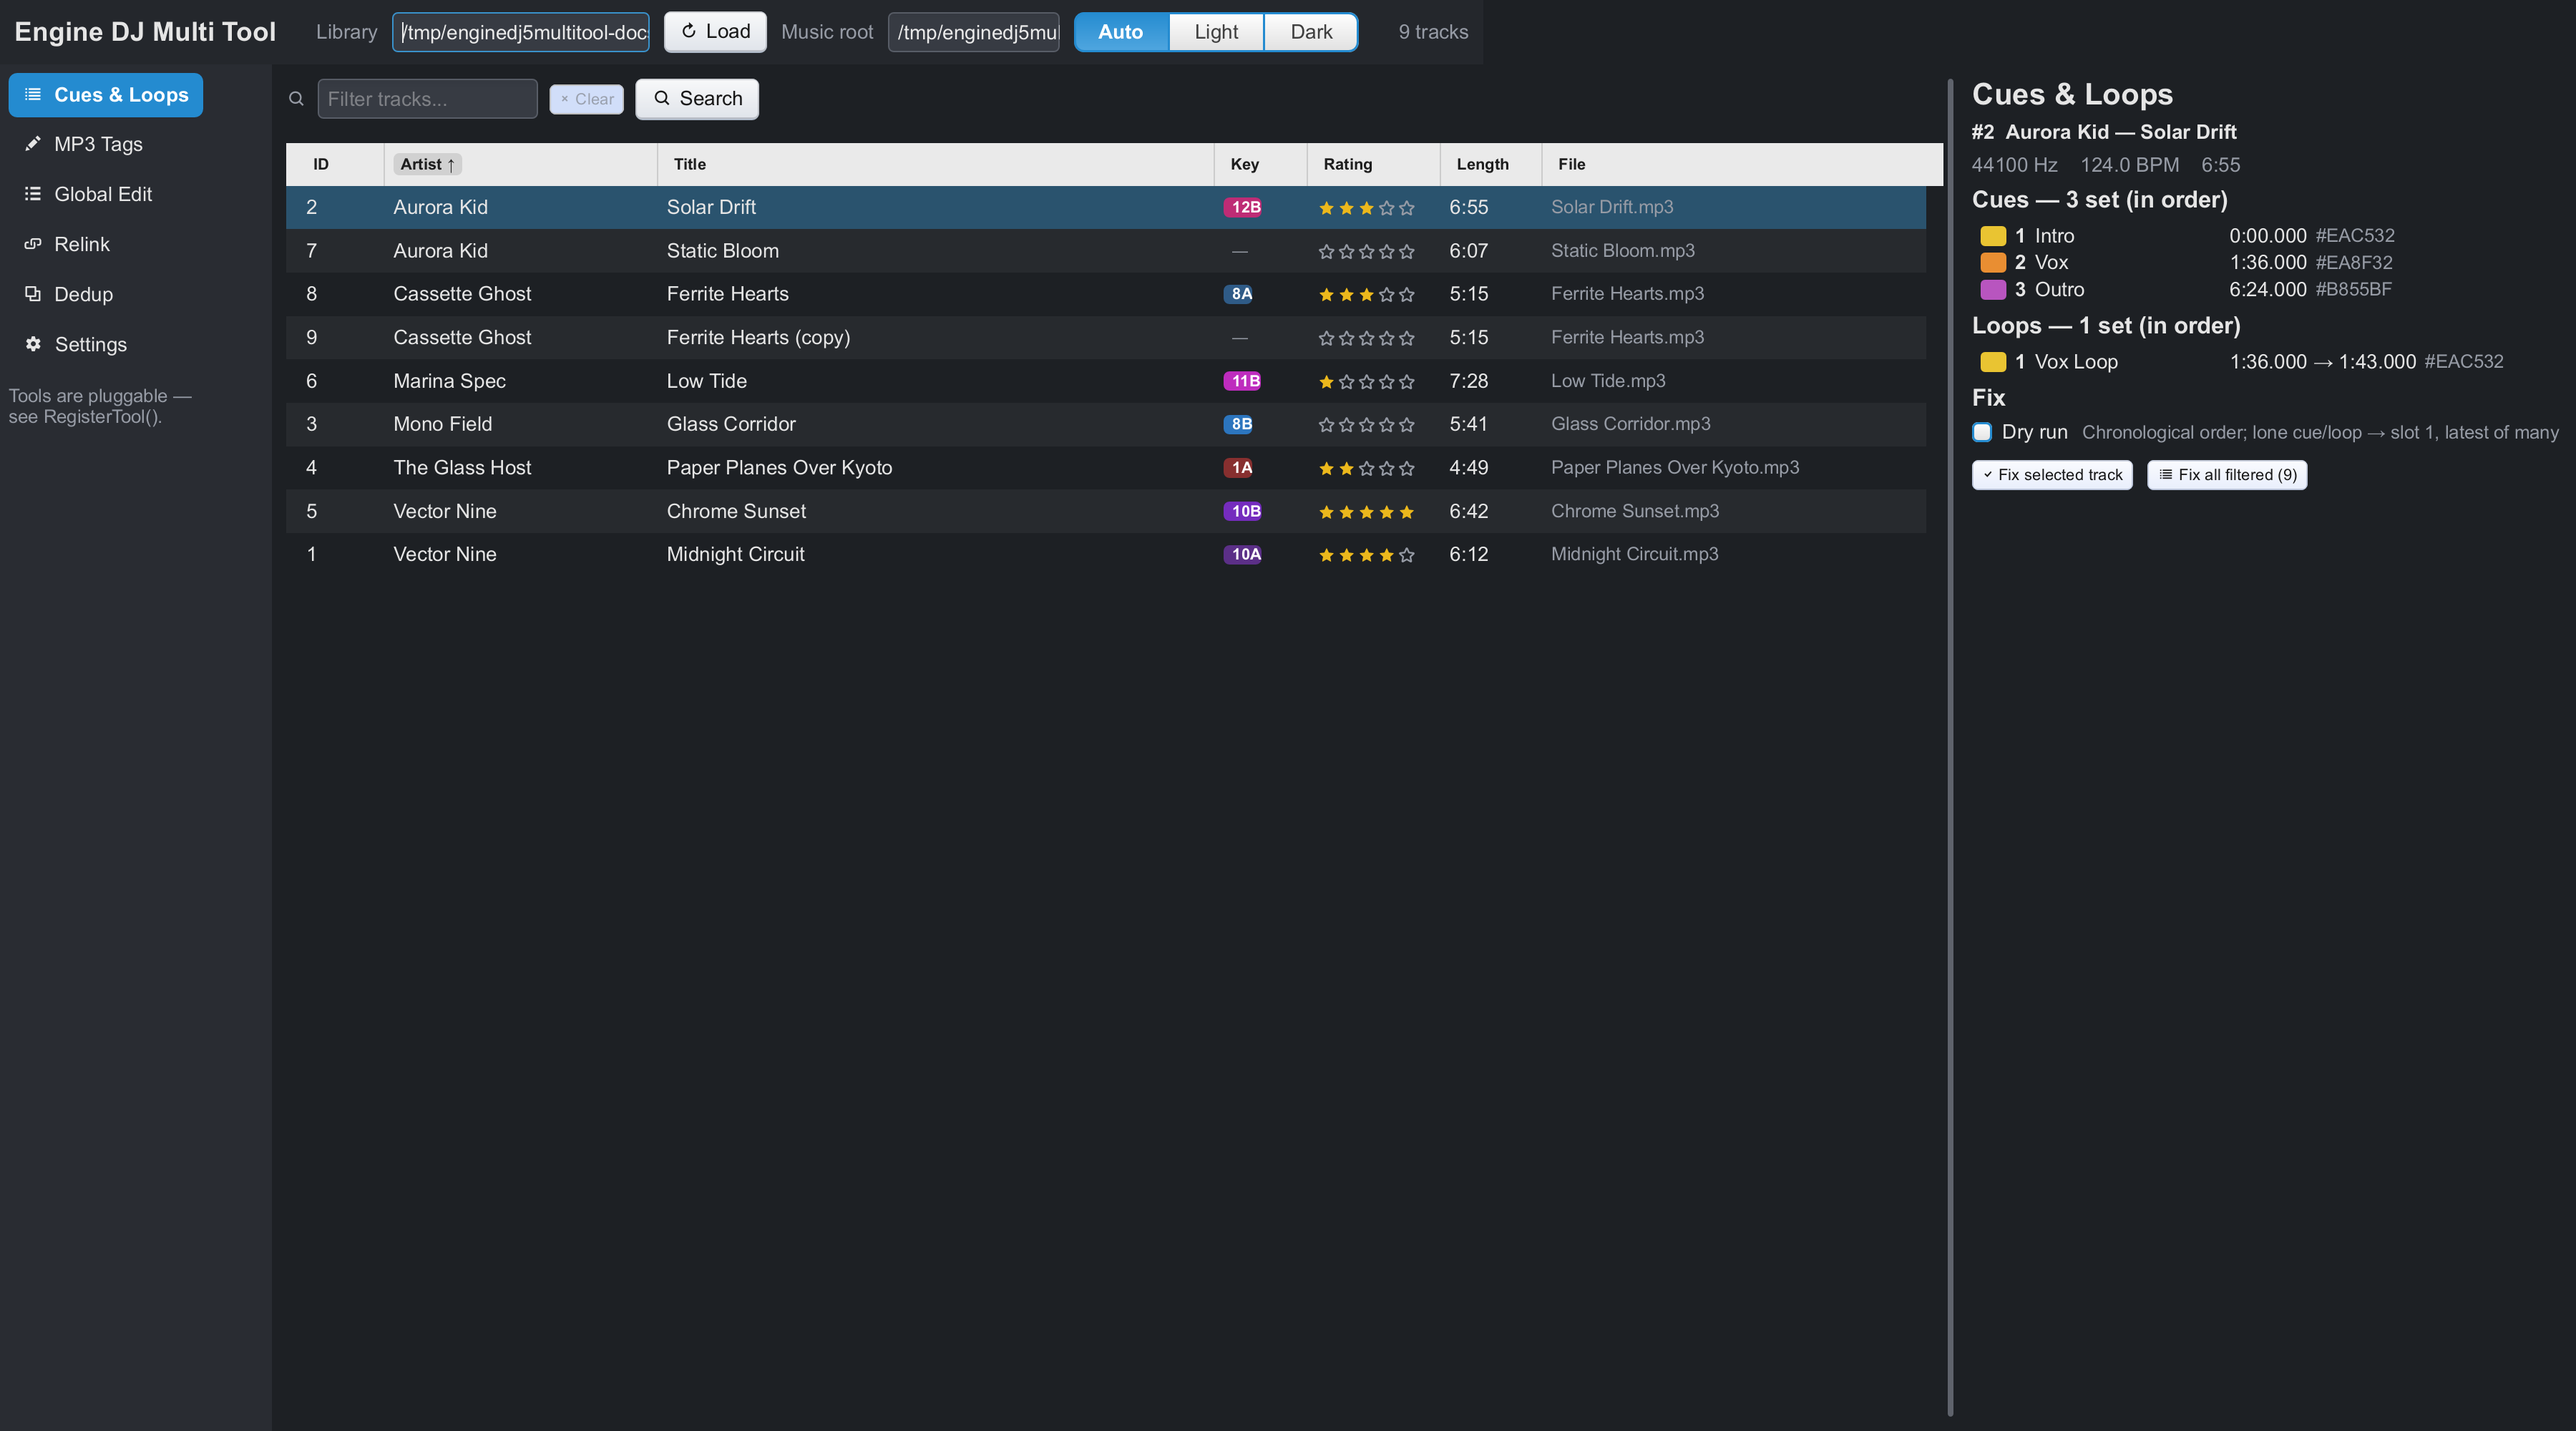
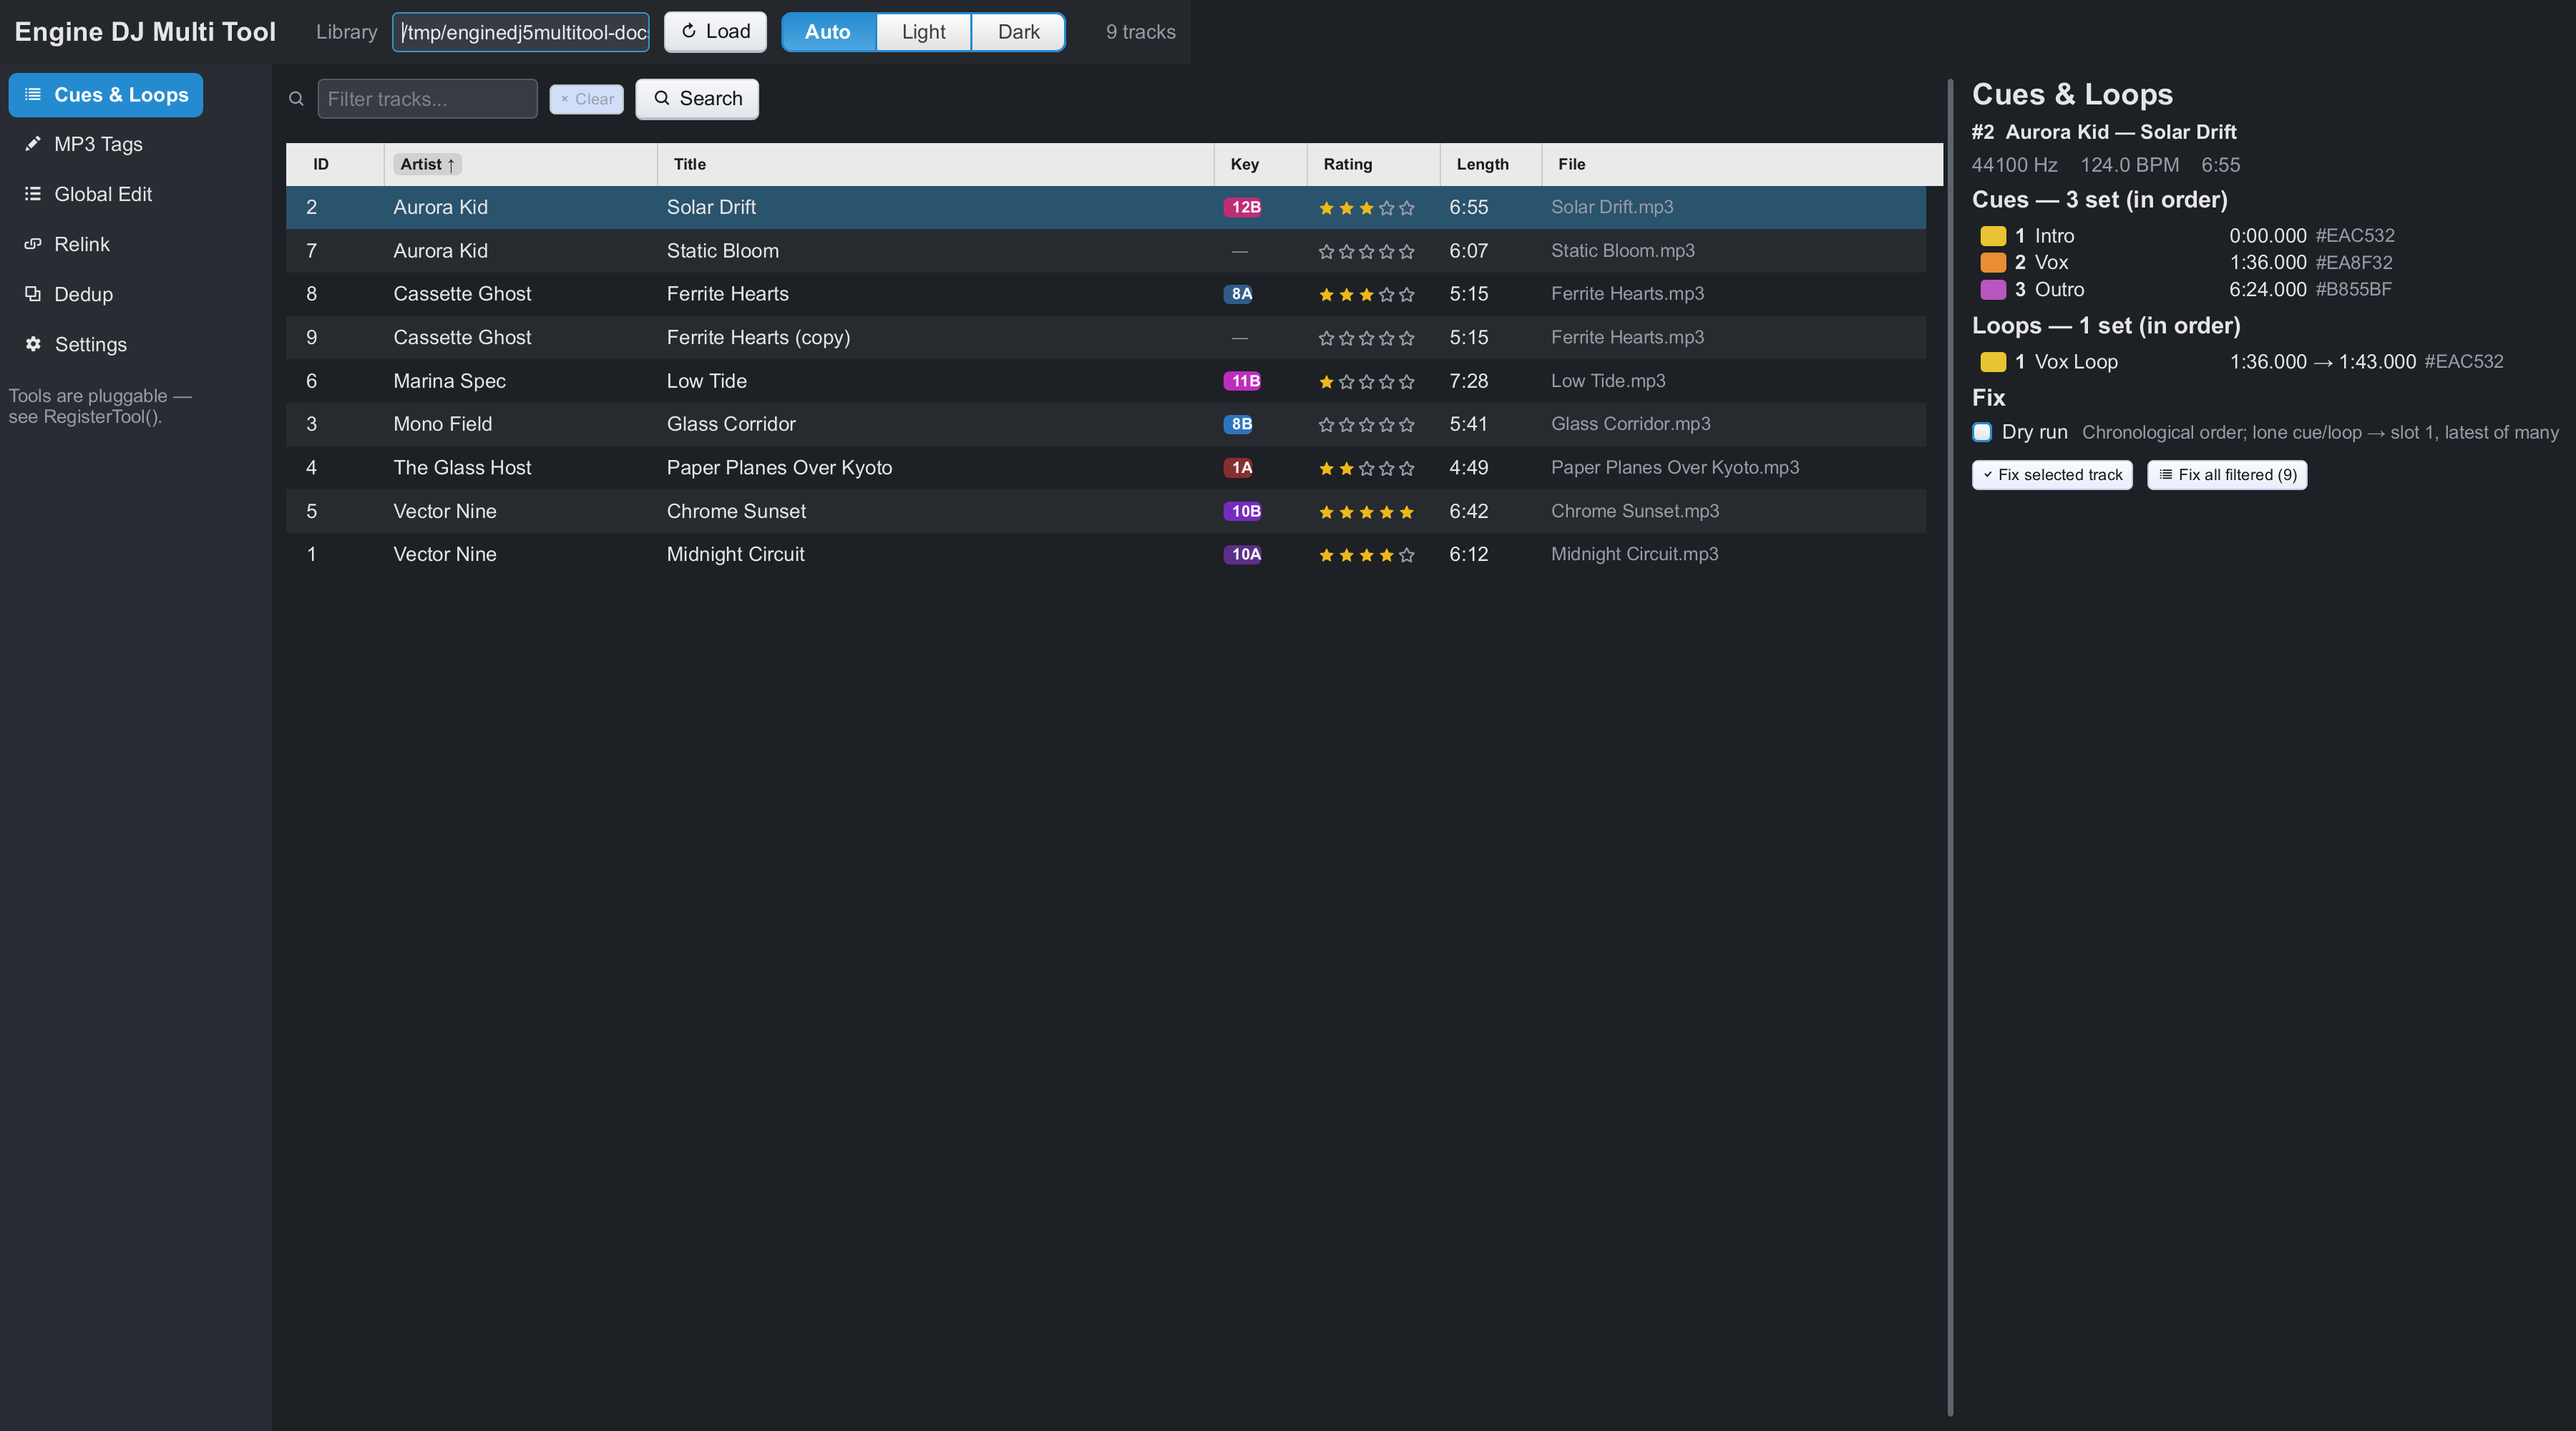
move musicroot to config

Changed region(s): [[0.28, 0.0, 0.5289, 0.062]]

diff --git a/ui_config.go b/ui_config.go
@@ -40,8 +40,10 @@ func (t *ConfigTool) View(a *App) {
 		})
 		// Music root
 		Container(Attrs(Gap(2)), func() {
-			a.L("Music root (used to resolve relative track paths)", FontSize(a.fs(11)), TextColorVec(a.pal().textDim))
+			a.L("Music root (optional)", FontSize(a.fs(11)), TextColorVec(a.pal().textDim))
 			a.input(&t.draft.MusicRoot, DefaultTextInputAttrs())
+			a.wrappedText("Extra folder to search when a track's audio file cannot be found. Track paths in the Engine DJ database are relative to the Engine Library folder; leave this empty for the standard layouts (audio next to the library or in the Music.app media tree). Set it only when your audio lives somewhere else entirely — for example an external drive like /Volumes/DJ Music — and every tool (Cues & Loops, MP3 Tags, Dedup) will look there too. Changes apply after pressing Load.",
+				640, FontSize(a.fs(11)), TextColorVec(a.pal().textDim))
 		})
 		// Engine Library folder
 		Container(Attrs(Gap(2)), func() {

diff --git a/ui.go b/ui.go
@@ -309,7 +309,8 @@ func (a *App) FullDiskAccessBanner() {
 	})
 }
 
-// TopBar shows the library path, music root, theme selector and load status.
+// TopBar shows the library path, theme selector and load status. The music
+// root override lives in the Settings tool (see its help text there).
 func (a *App) TopBar() {
 	p := a.pal()
 	Container(Attrs(Row, CrossMid, Pad2(8, 10), Gap(10), BackgroundVec(p.bgTop)), func() {
@@ -324,11 +325,6 @@ func (a *App) TopBar() {
 			a.Filter = a.FilterDraft
 			a.Refresh()
 		}
-
-		Label("Music root", TextColorVec(p.textDim))
-		Container(Attrs(Grow(1), MinWidth(120), MaxWidth(260)), func() {
-			a.input(&a.MusicRoot, smallInput(120))
-		})
 
 		Container(Attrs(Row, CrossMid), func() {
 			theme := &a.Theme
